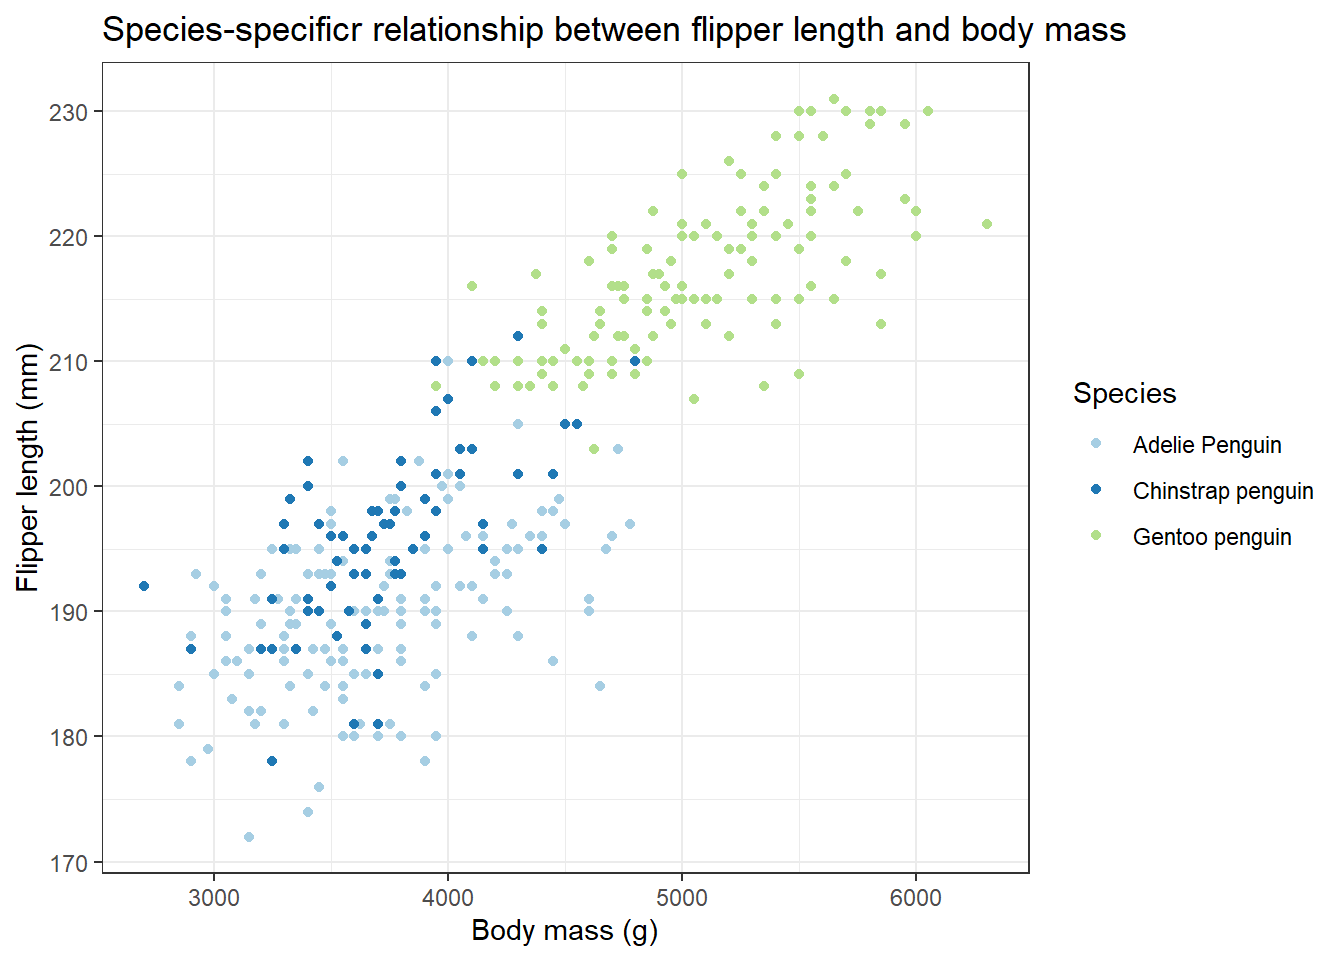
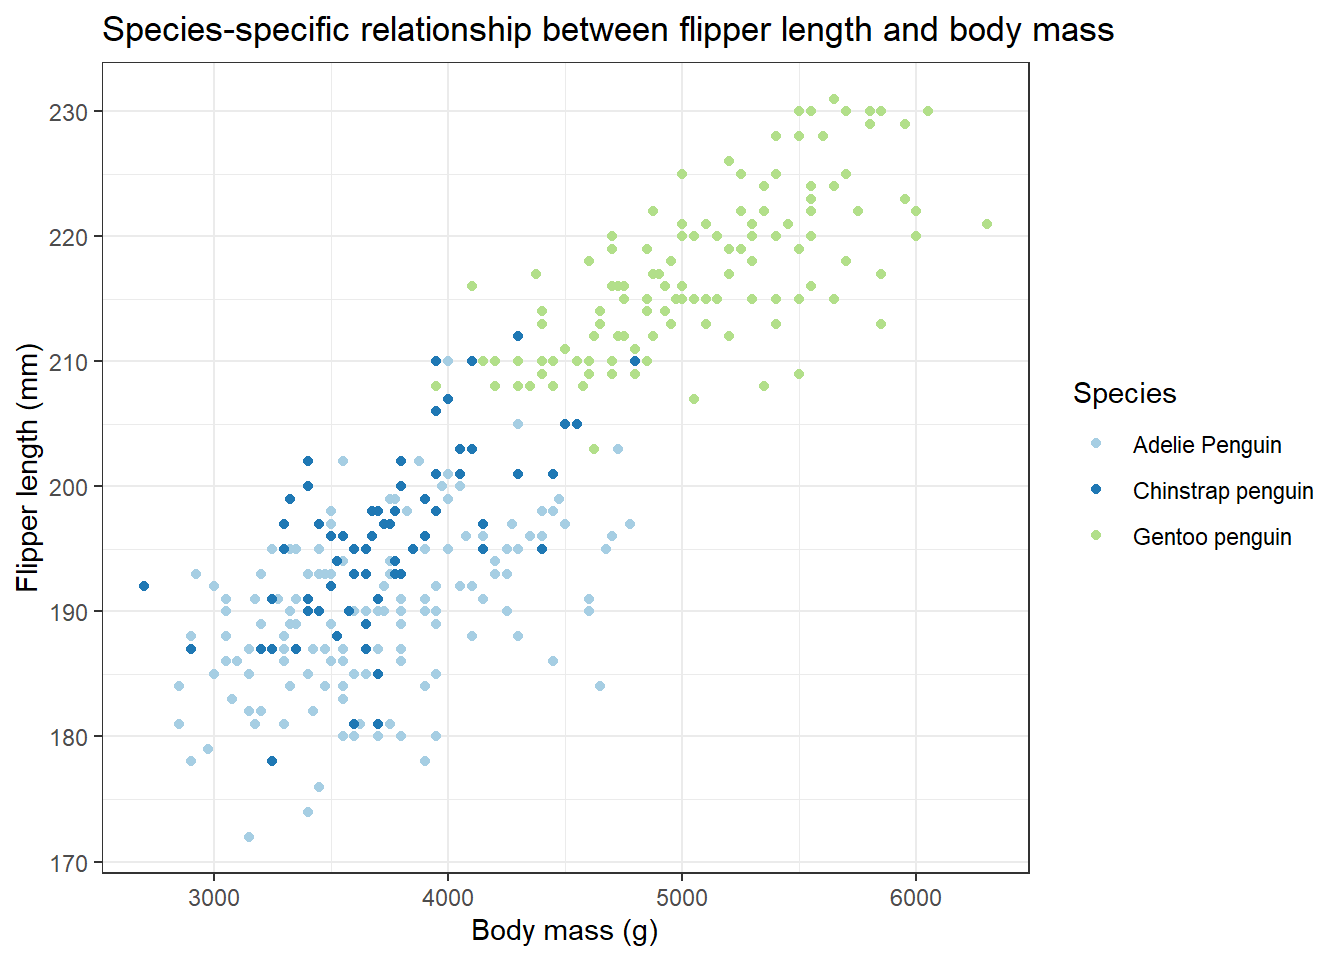
Updated html

Changed region(s): [[0.25, 0.0, 0.8438, 0.0625]]

diff --git a/scripts/BYOD1_workshop.html b/scripts/BYOD1_workshop.html
@@ -1021,7 +1021,7 @@ In most instances we want to show relationships between two variables, sometimes
 <div class="sourceCode cell-code" id="cb25"><pre class="sourceCode r code-with-copy"><code class="sourceCode r"><span id="cb25-1"><a href="#cb25-1" aria-hidden="true" tabindex="-1"></a><span class="fu">ggplot</span>(<span class="at">data=</span>cleandat)<span class="sc">+</span></span>
 <span id="cb25-2"><a href="#cb25-2" aria-hidden="true" tabindex="-1"></a>  <span class="fu">aes</span>(<span class="at">x=</span>body_mass_g,<span class="at">y=</span>flipper_length_mm,<span class="at">colour=</span>species)<span class="sc">+</span> </span>
 <span id="cb25-3"><a href="#cb25-3" aria-hidden="true" tabindex="-1"></a>  <span class="fu">geom_point</span>()<span class="sc">+</span> <span class="co"># type of graph</span></span>
-<span id="cb25-4"><a href="#cb25-4" aria-hidden="true" tabindex="-1"></a><span class="fu">labs</span>(<span class="at">title=</span><span class="st">"Species-specificr relationship between flipper length and body mass"</span>,<span class="at">x=</span><span class="st">"Body mass (g)"</span>,<span class="at">y=</span><span class="st">"Flipper length (mm)"</span>,<span class="at">colour=</span><span class="st">"Species"</span>)<span class="sc">+</span> <span class="co">#Customizing labels</span></span>
+<span id="cb25-4"><a href="#cb25-4" aria-hidden="true" tabindex="-1"></a><span class="fu">labs</span>(<span class="at">title=</span><span class="st">"Species-specific relationship between flipper length and body mass"</span>,<span class="at">x=</span><span class="st">"Body mass (g)"</span>,<span class="at">y=</span><span class="st">"Flipper length (mm)"</span>,<span class="at">colour=</span><span class="st">"Species"</span>)<span class="sc">+</span> <span class="co">#Customizing labels</span></span>
 <span id="cb25-5"><a href="#cb25-5" aria-hidden="true" tabindex="-1"></a>  <span class="fu">theme_bw</span>()<span class="sc">+</span> <span class="co"># remove grey background</span></span>
 <span id="cb25-6"><a href="#cb25-6" aria-hidden="true" tabindex="-1"></a>  <span class="fu">scale_colour_brewer</span>(<span class="at">type=</span><span class="st">"qual"</span>,<span class="at">palette=</span><span class="dv">3</span>)</span></code><button title="Copy to Clipboard" class="code-copy-button"><i class="bi"></i></button></pre></div>
 <div class="cell-output-display">
